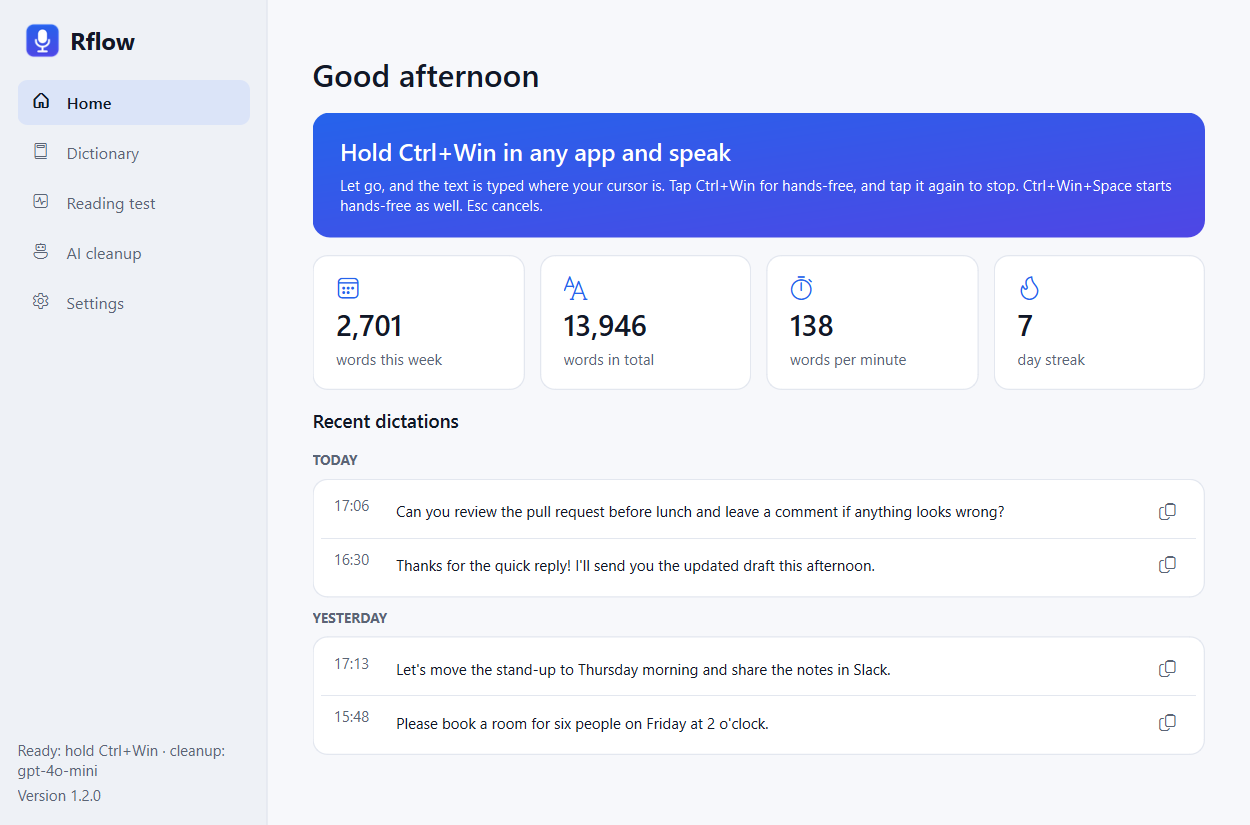
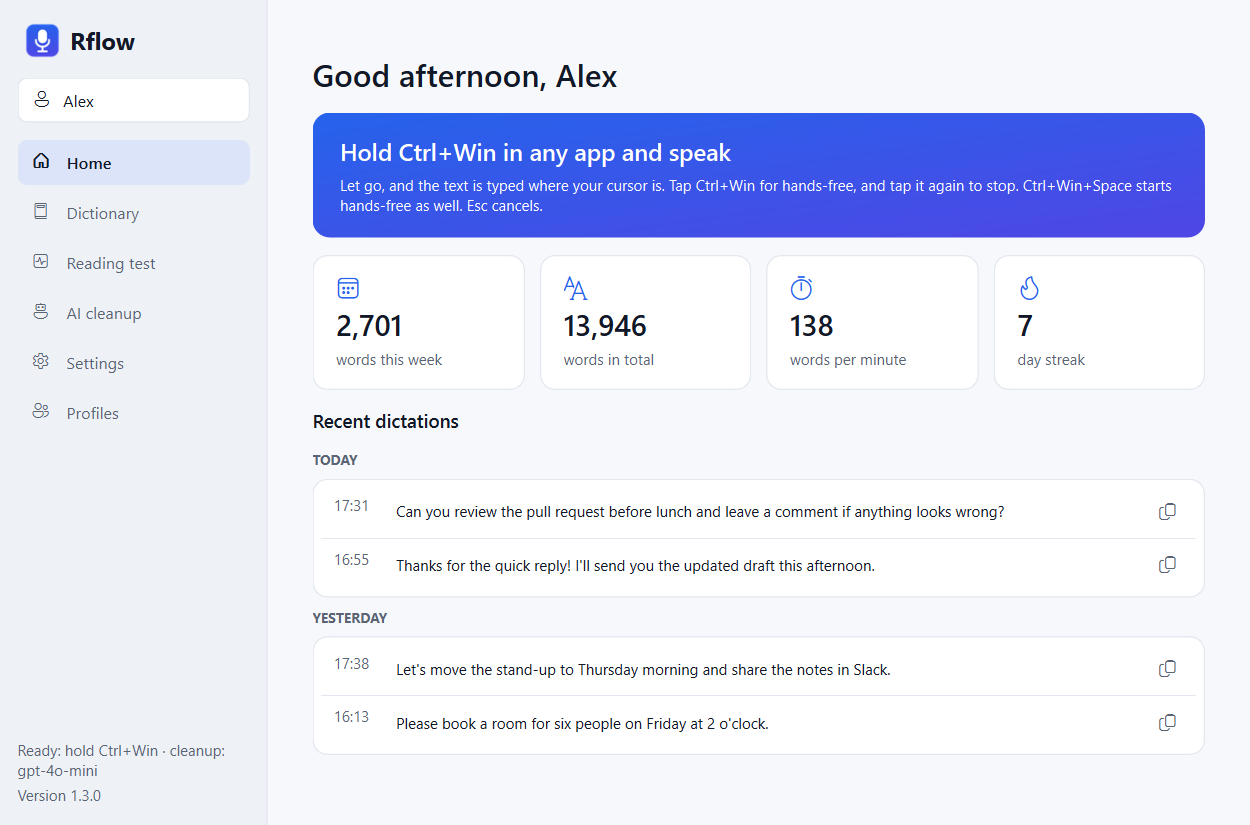
Show the AI providers and profiles on the website
The screenshots come from the window with a generic OpenAI setup and
example profiles; the texts name the providers and explain profiles.

diff --git a/site/index.html b/site/index.html
@@ -113,7 +113,7 @@
       <div class="card"><div class="icon">🎙</div><h3>Hold, or go hands-free</h3>
         <p>Hold <kbd>Ctrl</kbd>+<kbd>Win</kbd> while you talk, or tap it (or <kbd>Ctrl</kbd>+<kbd>Win</kbd>+<kbd>Space</kbd>) to keep recording. <kbd>Esc</kbd> cancels.</p></div>
       <div class="card"><div class="icon">✨</div><h3>Clean text, if you want it</h3>
-        <p>Optionally let an AI model you choose (OpenAI, Ollama, your company's endpoint...) add punctuation, drop "um"s and spell your terms right.</p></div>
+        <p>Optionally let an AI model you choose (OpenAI, Anthropic, Google Gemini, Groq, or Ollama and vLLM on your own server) add punctuation, drop "um"s and spell your terms right.</p></div>
       <div class="card"><div class="icon">💬</div><h3>Always shows what it's doing</h3>
         <p>A small pill at the bottom of the screen: a live level while you speak, then "Typed". It never steals focus.</p></div>
       <div class="card"><div class="icon">⬆</div><h3>Updates itself</h3>
@@ -156,6 +156,8 @@
         <div class="card"><h3>Dictionary</h3><p>Names and terms Rflow should spell your way.</p></div>
         <div class="card"><h3>Reading test</h3><p>Read 30 sentences and see how well Rflow understands you.</p></div>
         <div class="card"><h3>Settings</h3><p>Your key and microphone, with a live level to check it.</p></div>
+        <div class="card"><h3>AI cleanup</h3><p>Your provider, key and model, with a Test button.</p></div>
+        <div class="card"><h3>Profiles</h3><p>One setup per person, when several people share the computer.</p></div>
       </div>
       <p class="sub" style="margin: 18px 0 0">Closing the window keeps Rflow running in the background, so dictation
         still works everywhere.</p>
@@ -167,10 +169,12 @@
   <div class="wrap two">
     <div>
       <h2>Your key, your microphone, your words</h2>
-      <p class="sub">Pick the microphone, the dictation key and whether to clean up the text. For the cleanup, enter any
-        OpenAI-compatible endpoint and choose a model from its list, with a backup model in case it fails. Add the names
-        and terms you use, so they come out right.</p>
-      <p class="sub">If the endpoint is slow or unreachable, Rflow simply types what it heard, so dictation never waits.</p>
+      <p class="sub">Pick the microphone, the dictation key and whether to clean up the text. For the cleanup, choose your
+        AI provider (OpenAI, Anthropic, Google Gemini, Groq, or Ollama, vLLM or any OpenAI-compatible server of your
+        own), paste its key and pick a model from its list, with a backup model in case it fails. Add the names and
+        terms you use, so they come out right.</p>
+      <p class="sub">If the provider is slow or unreachable, Rflow simply types what it heard, so dictation never waits.
+        Sharing the computer? Each person gets a profile with their own key, words, provider and history.</p>
     </div>
     <img class="shot" src="img/settings.png" alt="Rflow's AI cleanup page: endpoint, key, model and backup model">
   </div>
@@ -180,8 +184,9 @@
   <div class="wrap">
     <h2>Questions</h2>
     <details><summary>Is my voice sent anywhere?</summary>
-      <p>No. Speech is recognised on your laptop by NVIDIA Parakeet. Only if you switch on text cleanup is the finished
-        text (never audio) sent to the endpoint you entered.</p></details>
+      <p>No. Speech is recognised on your laptop by NVIDIA Parakeet. Only if you switch on AI cleanup is the finished
+        text (never audio) sent to the provider you chose. With Ollama or vLLM on your own computer or server, even
+        that stays with you. Your API keys are encrypted for your Windows account.</p></details>
     <details><summary>Windows says "Windows protected your PC"</summary>
       <p>The installer isn't code-signed yet. Click <b>More info</b>, then <b>Run anyway</b>.</p></details>
     <details><summary>What does it need?</summary>

diff --git a/scripts/make_site_screenshots.py b/scripts/make_site_screenshots.py
@@ -13,7 +13,7 @@ from PySide6.QtWidgets import QApplication
 
 from sst import window as w
 from sst.gateway import GatewayConfig
-from sst.settings import Settings, Stats
+from sst.settings import Profiles, Settings, Stats
 
 OUT = Path(__file__).resolve().parent.parent / "site" / "img"
 EXAMPLES = [  # (minutes ago, text)
@@ -34,9 +34,12 @@ def preview() -> w.PreviewApp:
     stats.add(" ".join(["word"] * 9800), 9800 / 2.3, date.today() - timedelta(days=30))  # the month before
     settings = Settings(welcomed=True, cleanup=True, cleanup_model="gpt-4o-mini", cleanup_fallback="gpt-4.1-nano",
                         vocabulary=["Rflow", "GitHub", "Kubernetes", "Priya", "Q3 roadmap"])
+    profiles = Profiles()
+    profiles.current.name = "Alex"
+    profiles.add("Sam")
     return w.PreviewApp(settings=settings, history=history, stats=stats,
                         microphones=["Microphone (Realtek(R) Audio)", "Headset (Bluetooth)"],
-                        gateway=GatewayConfig("https://api.openai.com/v1", "sk-example-key"))
+                        gateway=GatewayConfig("", "sk-example-key", "openai"), profiles=profiles)
 
 
 def shot(app: w.PreviewApp, page: str, name: str, size=(1000, 660)) -> None:
@@ -53,7 +56,7 @@ def main() -> None:
     QApplication([])
     app = preview()
     shot(app, "home", "app.png")
-    shot(app, "cleanup", "settings.png", size=(1000, 560))
+    shot(app, "cleanup", "settings.png", size=(1000, 600))
     app.settings.welcomed = False
     shot(app, "welcome", "welcome.png", size=(1000, 760))
     print("Wrote", ", ".join(sorted(p.name for p in OUT.glob("*.png"))))
